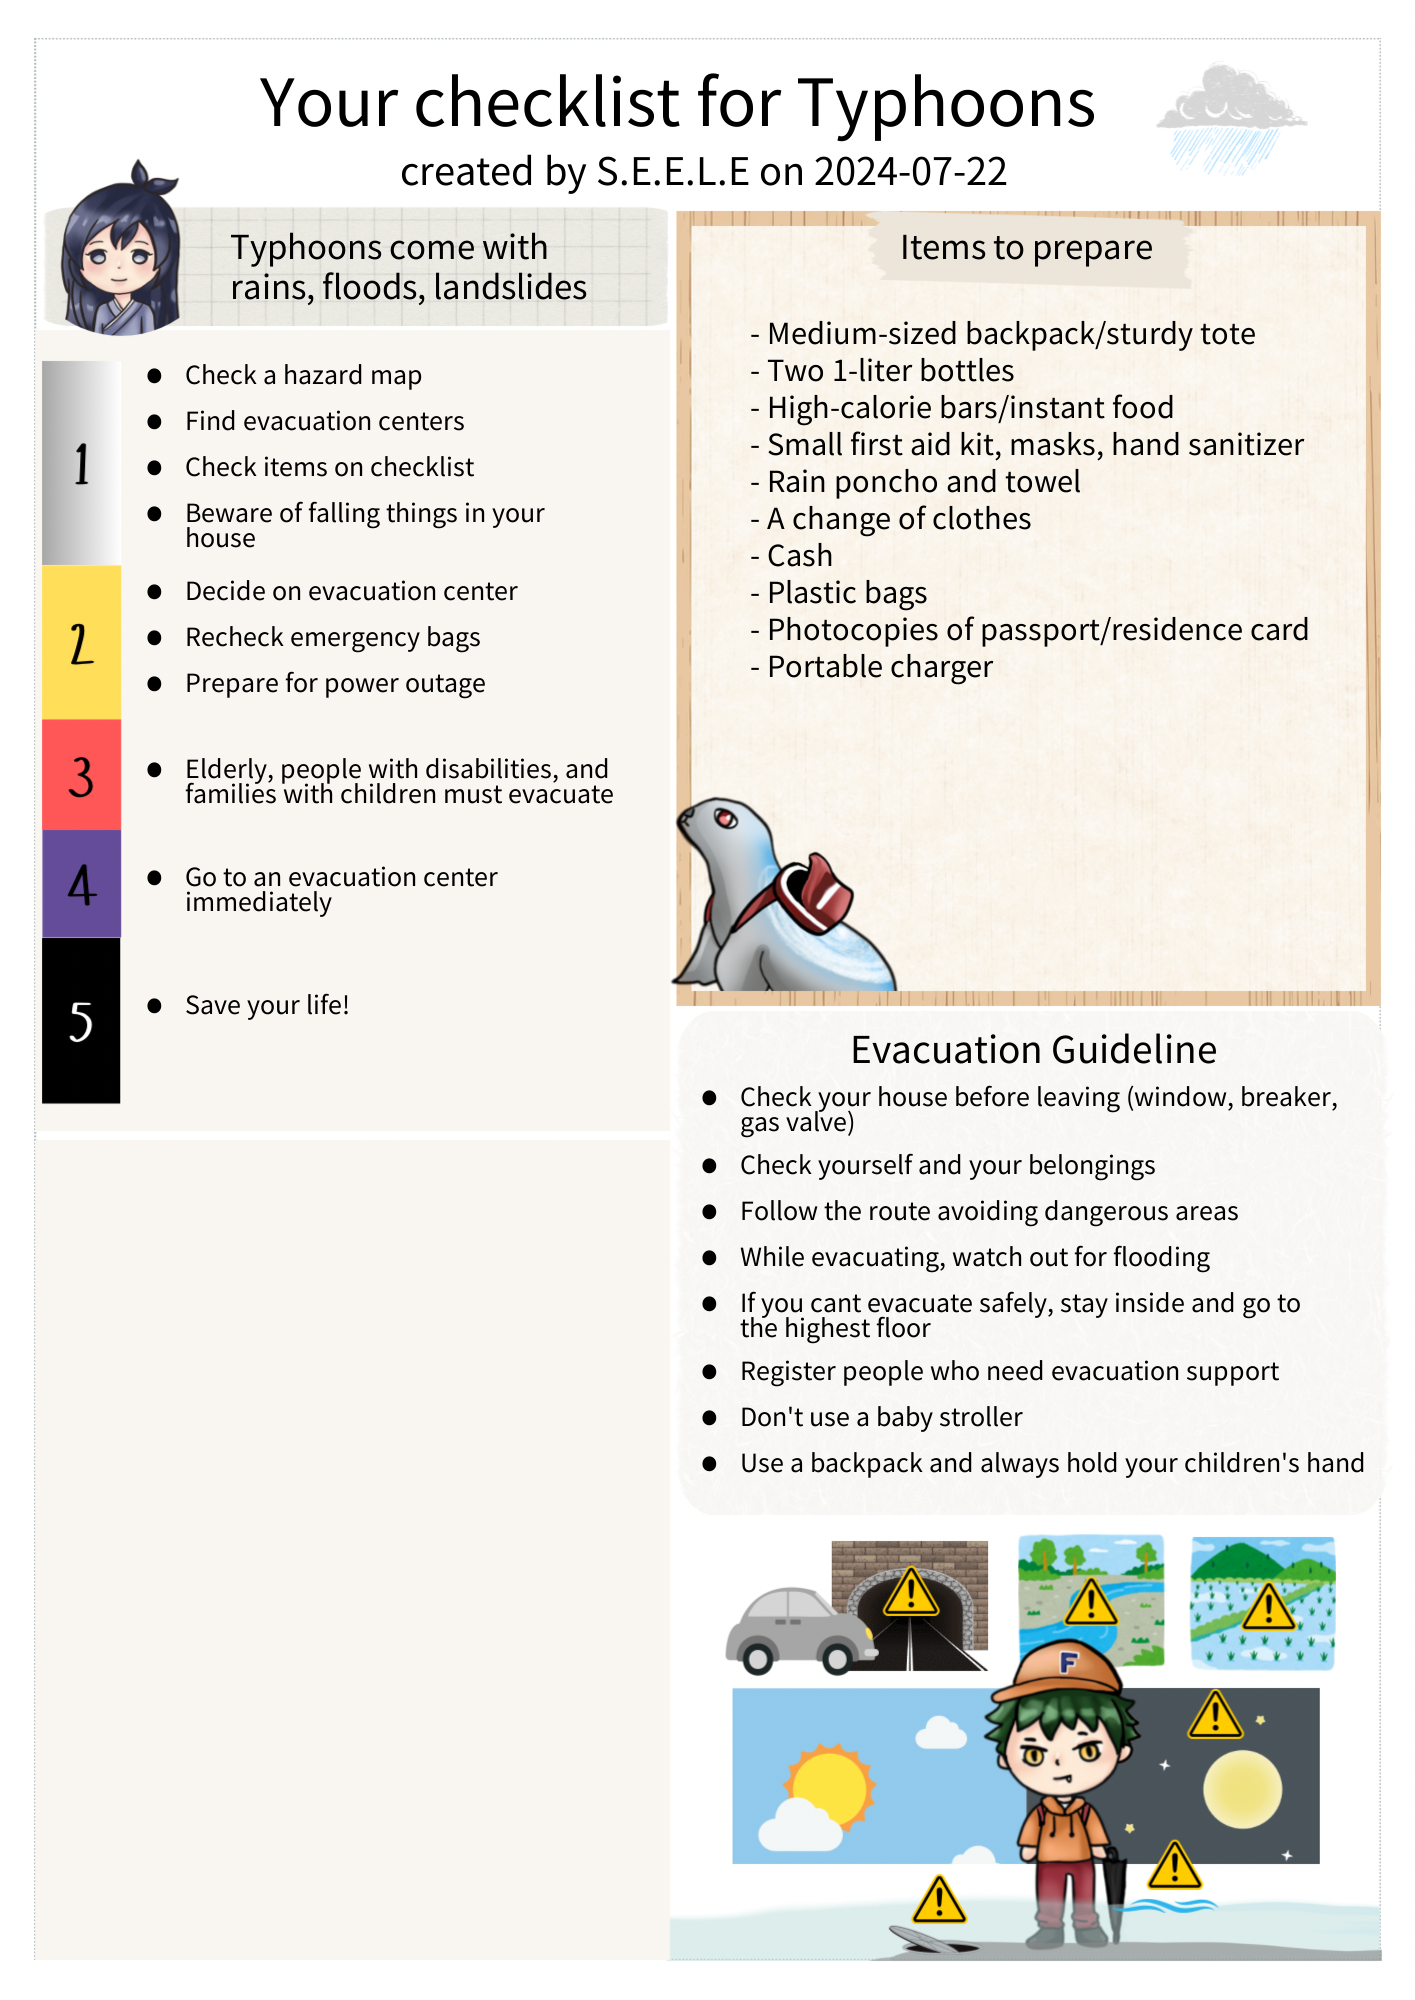
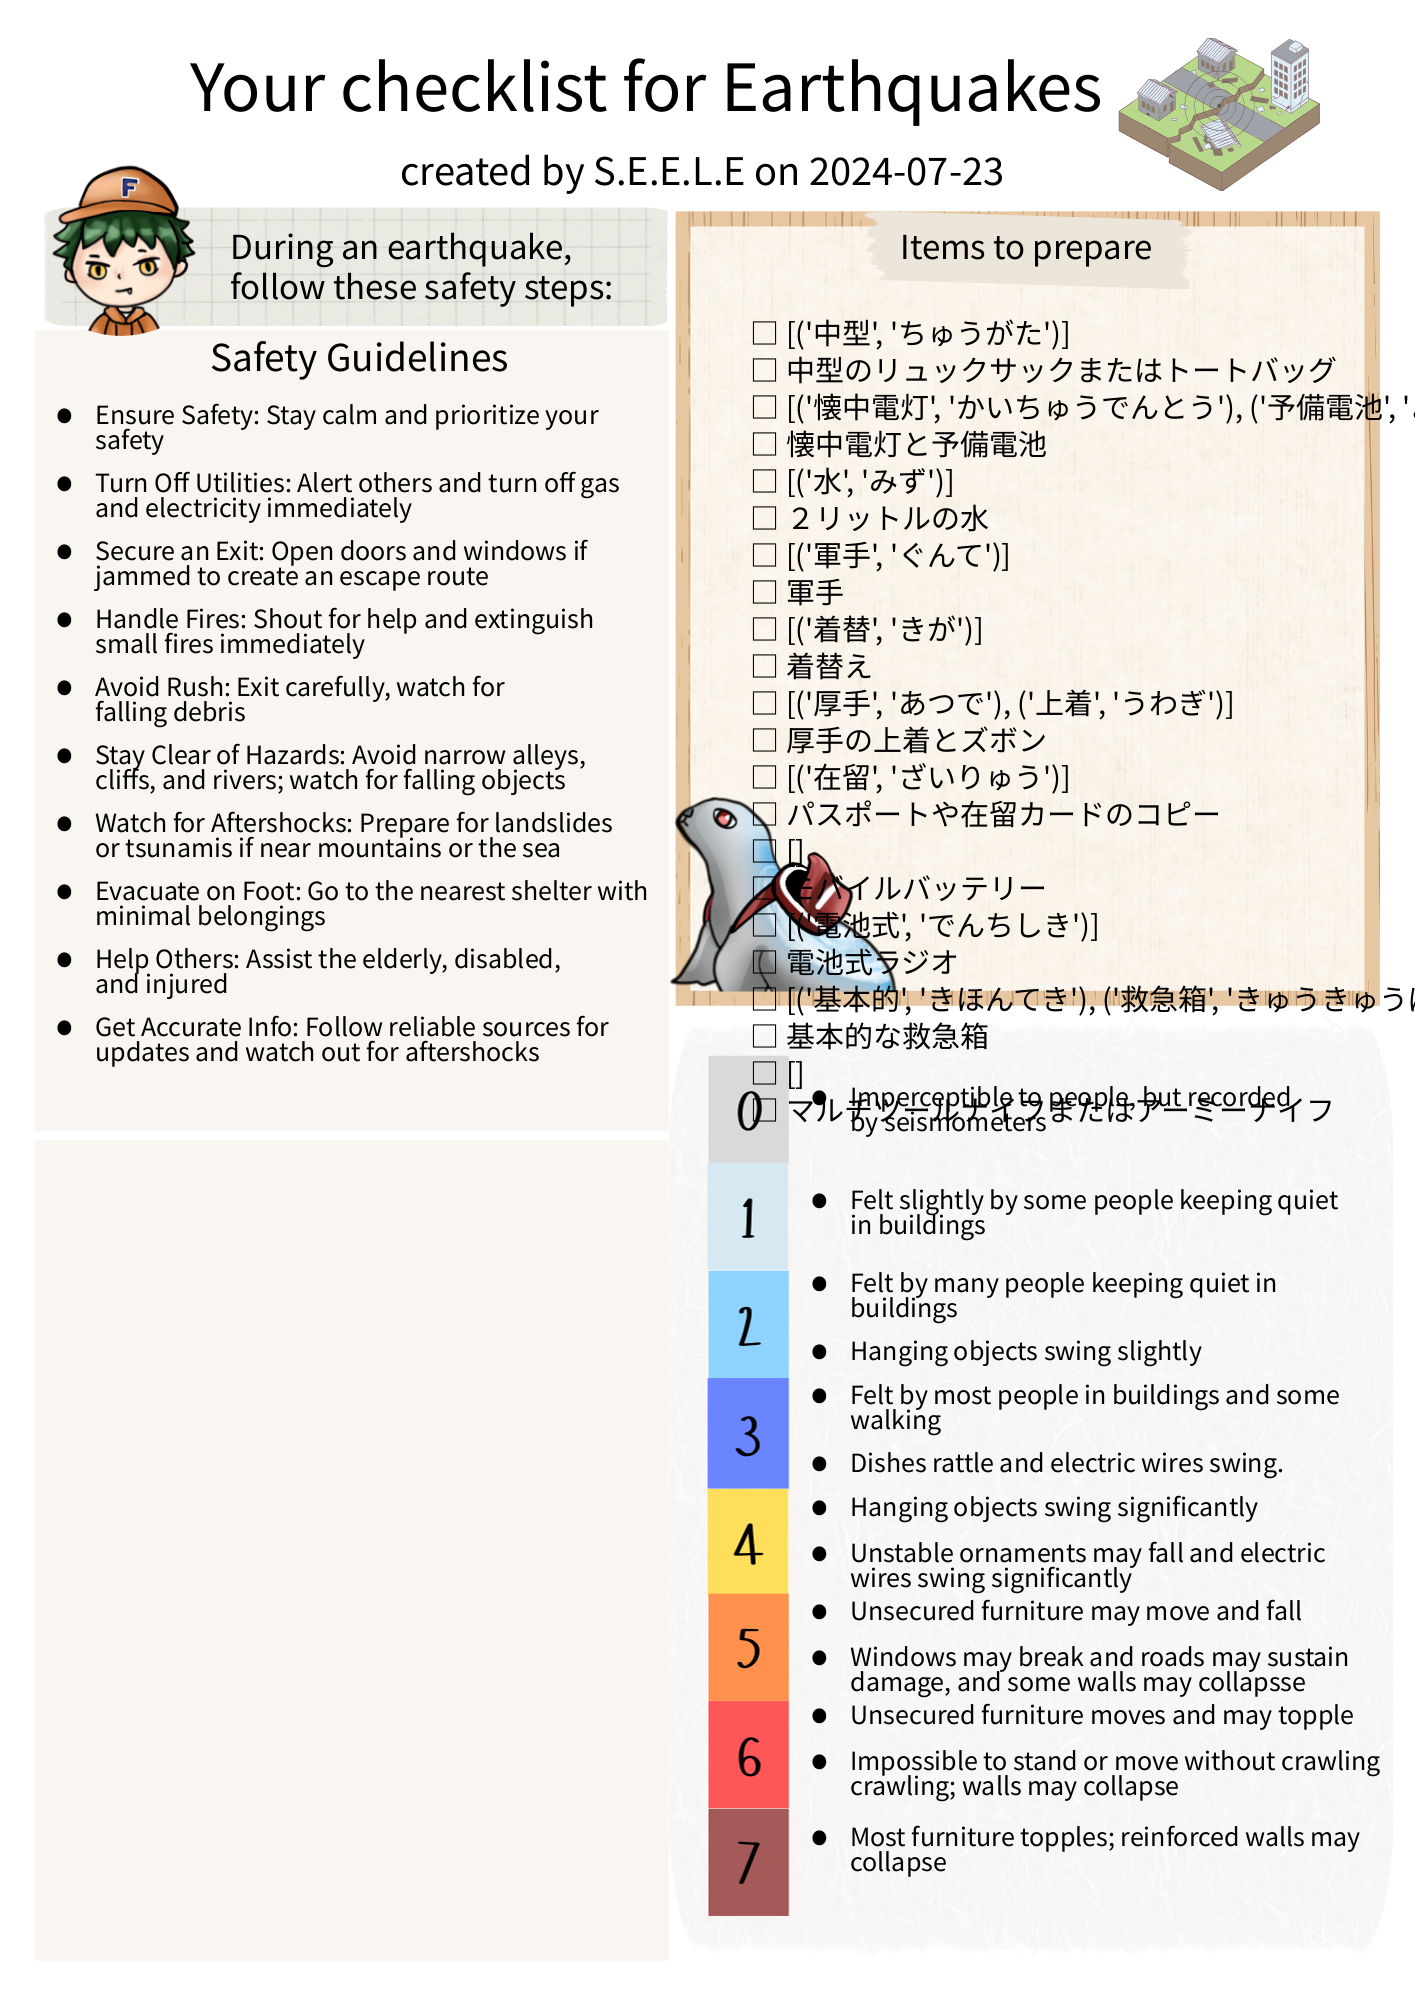
First edition of Earthquake checklist translations

diff --git a/website/views.py b/website/views.py
@@ -508,14 +508,14 @@ def generate_checklist(user, disaster_type, prepare_type):
 
     elif disaster_type == 'Earthquake':
         categories = {
-            "Go Bag": [],
-            "Water and Food": [],
-            "Medical and Hygiene": [],
-            "Communication and Documents": [],
-            "Home Safety": [],
+            _("Go Bag"): [],
+            _("Water and Food"): [],
+            _("Medical and Hygiene"): [],
+            _("Communication and Documents"): [],
+            _("Home Safety"): [],
         }
 
-        categories["Go Bag"].extend([
+        categories[_("Go Bag")].extend([
             _("Medium-sized backpack or sturdy tote"),
             _("Flashlight with extra batteries"),
             _("Two liters of water"),
@@ -528,7 +528,7 @@ def generate_checklist(user, disaster_type, prepare_type):
             _("Basic first aid kit"),
             _("Multi-tool or Swiss army knife"),
         ])
-        categories["Water and Food"].extend([
+        categories[_("Water and Food")].extend([
             f"{family_size * 3 * 3} " + _("Liters of water"),
             f"{family_size * 3 * 2000} " + _("calories of non-perishable food"),
         ])
@@ -539,13 +539,13 @@ def generate_checklist(user, disaster_type, prepare_type):
         medication_amount = user.medication_amount if user.medication_amount else 0
 
         if medical_issue and medication_amount == 0:
-            categories["Medical and Hygiene"].append(_("Medication for ") + f"{safe_med} " + _("for 3 days"))
+            categories[_("Medical and Hygiene")].append(_("Medication for ") + f"{safe_med} " + _("for 3 days"))
         elif medical_issue and medication_amount != 0:
-            categories["Medical and Hygiene"].append(_("Medication for ") + f"{safe_med}: {medication_amount * 3} " + _("units"))
+            categories[_("Medical and Hygiene")].append(_("Medication for ") + f"{safe_med}: {medication_amount * 3} " + _("units"))
 
-        categories["Medical and Hygiene"].append(_("First aid kit"))
+        categories[_("Medical and Hygiene")].append(_("First aid kit"))
 
-        categories["Home Safety"].extend([
+        categories[_("Home Safety")].extend([
             _("Secure heavy furniture to walls"),
             _("Apply shatter-proof film to glass items"),
             _("Check and reinforce gas lines and water pipes"),
@@ -553,7 +553,7 @@ def generate_checklist(user, disaster_type, prepare_type):
             _("Identify the safest place in your house (e.g., under a sturdy table or against an interior wall)"),
             _("Prepare for potential aftershocks"),
         ])
-        categories["Communication and Documents"].extend([
+        categories[_("Communication and Documents")].extend([
             _("Emergency contact list"),
             _("Important documents (ID, insurance papers)"),
             _("Radio"),
@@ -562,50 +562,50 @@ def generate_checklist(user, disaster_type, prepare_type):
         ])
 
         if user.women_bool:
-            categories["Medical and Hygiene"].extend([
+            categories[_("Medical and Hygiene")].extend([
                 _("Sanitary napkins/tampons"),
                 _("Lotion/cleansing sheets"),
             ])
         if user.baby_bool:
-            categories["Medical and Hygiene"].extend([
+            categories[_("Medical and Hygiene")].extend([
                 _("Baby formula/food"),
                 _("Diapers"),
             ])
         if user.child_bool:
-            categories["Communication and Documents"].append(_("Books/toys"))
+            categories[_("Communication and Documents")].append(_("Books/toys"))
 
         if user.pet_bool:
-            categories["Pet"] = []
-            categories["Pet"].extend([
+            categories[_("Pet")] = []
+            categories[_("Pet")].extend([
                 _("Pet food for 3 days"),
                 _("Leash"),
                 _("Pet Sheets"),
                 _("Poop bags"),
             ])
         if user.blind_bool:
-            if "Disability" in categories:
-                categories["Disability"].extend([
+            if _("Disability") in categories:
+                categories[_("Disability")].extend([
                     _("Mark emergency supplies with braille or large print"),
                     _("Extra eyeglasses or contacts"),
                 ])
             else:
-                categories["Disability"] = []
-                categories["Disability"].extend([
+                categories[_("Disability")] = []
+                categories[_("Disability")].extend([
                     _("Mark emergency supplies with braille or large print"),
                     _("Extra eyeglasses or contacts"),
                 ])
 
         if user.deaf_bool:
-            if "Disability" in categories:
-                categories["Disability"].extend([
+            if _("Disability") in categories:
+                categories[_("Disability")].extend([
                     _("Weather radio with text display and a flashing alert"),
                     _("Extra hearing-aid batteries"),
                     _("Pen and paper for communication"),
                     _("Battery lantern for communication by sign language"),
                 ])
             else:
-                categories["Disability"] = []
-                categories["Disability"].extend([
+                categories[_("Disability")] = []
+                categories[_("Disability")].extend([
                     _("Weather radio with text display and a flashing alert"),
                     _("Extra hearing-aid batteries"),
                     _("Pen and paper for communication"),
@@ -613,22 +613,22 @@ def generate_checklist(user, disaster_type, prepare_type):
                 ])
 
         if user.wheelchair_bool:
-            if "Disability" in categories:
-                categories["Disability"].extend([
+            if _("Disability") in categories:
+                categories[_("Disability")].extend([
                     _("Backup lightweight manual wheelchair"),
                     _("Patch kit or can of sealant for flat tires"),
                     _("Cane or walker"),
                 ])
             else:
-                categories["Disability"] = []
-                categories["Disability"].extend([
+                categories[_("Disability")] = []
+                categories[_("Disability")].extend([
                     _("Backup lightweight manual wheelchair"),
                     _("Patch kit or can of sealant for flat tires"),
                     _("Cane or walker"),
                 ])
     else:
         categories = {
-            "Other": [_("Select a valid disaster type")]
+            _("Other"): [_("Select a valid disaster type")]
         }
 
     return categories

diff --git a/website/utils.py b/website/utils.py
@@ -2,7 +2,7 @@ import os
 import re
 from PIL import Image, ImageDraw, ImageFont
 from django.conf import settings
-from django.utils.translation import gettext as trans, get_language
+from django.utils.translation import gettext as _, get_language
 from datetime import datetime
 import re
 from concurrent.futures import ThreadPoolExecutor
@@ -32,7 +32,7 @@ def bullet_spacing(draw, fonts, list, x, y, scale, bigList=False):
     for item, bullet_point in list:
         if bullet_point:
             draw_text(draw, "\u2022", bullet_font, x, y)
-            draw_text(draw, trans(item), text_font, x + int(40 * scale), y + int(27 * scale))
+            draw_text(draw, _(item), text_font, x + int(40 * scale), y + int(27 * scale))
 
             if not bigList:
                 y += int(46 * scale)
@@ -40,7 +40,7 @@ def bullet_spacing(draw, fonts, list, x, y, scale, bigList=False):
             else:
                 y += int(42 * scale)
         else:
-            draw_text(draw, trans(item), text_font, x + int(40 * scale), y + int(6 * scale))
+            draw_text(draw, _(item), text_font, x + int(40 * scale), y + int(6 * scale))
 
             if not bigList:
                 y += int(22 * scale)
@@ -254,16 +254,16 @@ def checklist_image(checklist, disaster_type, user):
 
     tasks = []
     if disaster_type == "Earthquake":
-        tasks.append((draw_text, (draw, trans(f"Your checklist for {disaster_type}s"), fonts['title'], 190 * scale, 35 * scale)))
+        tasks.append((draw_text, (draw, _(f"Your checklist for {disaster_type}s"), fonts['title'], 190 * scale, 35 * scale)))
     
     else:
-        tasks.append((draw_text, (draw, trans(f"Your checklist for {disaster_type}s"), fonts['title'], 260 * scale, 50 * scale)))
+        tasks.append((draw_text, (draw, _(f"Your checklist for {disaster_type}s"), fonts['title'], 260 * scale, 50 * scale)))
 
     tasks.append((draw_text, (draw, f"created by S.E.E.L.E on {datetime.now().date()}", fonts['info'], 400 * scale, 140 * scale)))
     tasks.append((draw_text, (draw, "Items to prepare", fonts['header'], 900 * scale, 220 * scale)))
 
     y = 310 * scale
-    for i, item in enumerate(checklist["Go Bag"]):
+    for i, item in enumerate(checklist[_("Go Bag")]):
         x = 750 * scale
         if get_language().startswith("jp"):
             sentence_furi = parse_furigana(item)
